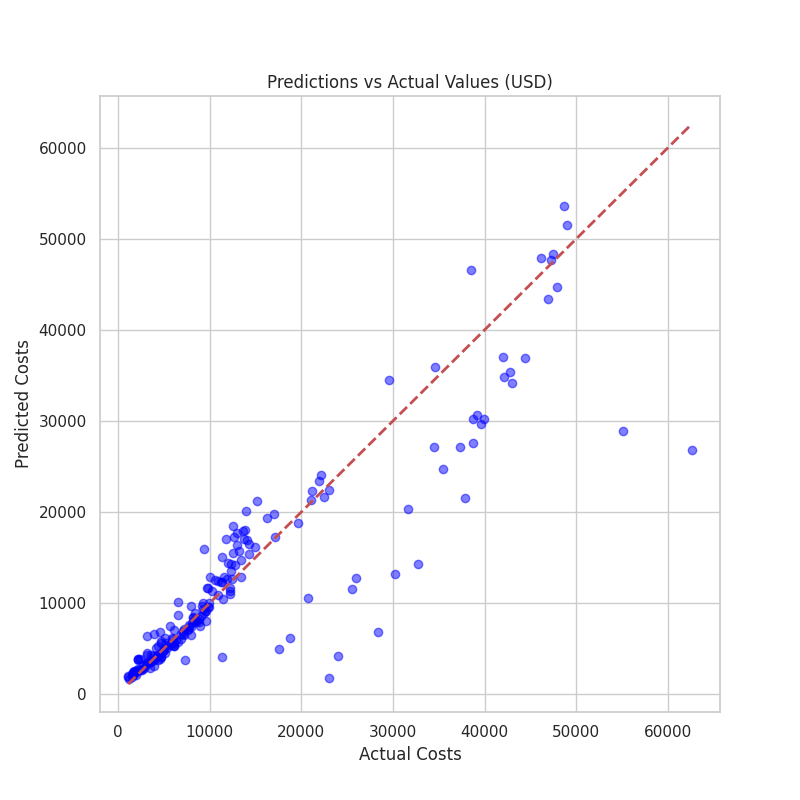
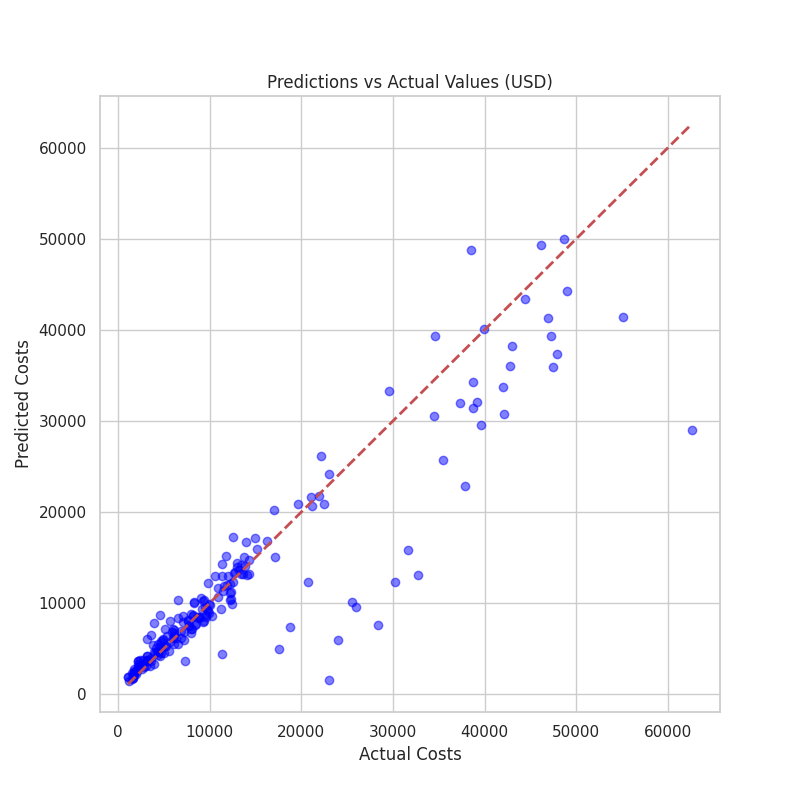
set seed

diff --git a/src/utils.py b/src/utils.py
@@ -1,0 +1,23 @@
+import torch
+import numpy as np
+import random
+import os
+
+def set_seed(seed=42):
+
+    # Python base 
+    random.seed(seed)
+    os.environ['PYTHONHASHSEED'] = str(seed)
+    
+    # Numpy
+    np.random.seed(seed)
+    
+    # PyTorch (CPU y GPU)
+    torch.manual_seed(seed)
+    torch.cuda.manual_seed(seed)
+    torch.cuda.manual_seed_all(seed)
+    
+    # Force CuDNN to be deterministic (may impact performance)
+    torch.backends.cudnn.deterministic = True
+    torch.backends.cudnn.benchmark = False
+    

diff --git a/src/pytorch.py b/src/pytorch.py
@@ -61,7 +61,8 @@ def run_pytorch_model():
             v_loss = criterion(model(X_val_t.to(device)), y_val_t.to(device))
         return v_loss.item()
 
-    study = optuna.create_study(direction="minimize")
+    sampler = optuna.samplers.TPESampler(seed=42)
+    study = optuna.create_study(direction="minimize", sampler=sampler)
     study.optimize(objective, n_trials=15)
     best_params = study.best_params
 

diff --git a/src/main.py b/src/main.py
@@ -8,8 +8,10 @@ from EDA import main as run_eda
 from preprocesing import main as run_preprocessing
 from pytorch import run_pytorch_model
 from baseline import run_baseline
+from utils import set_seed
 
 def main():
+    set_seed(42)
     print("\n" + "="*50)
     print("      STARTING INSURANCE PRICE PREDICTION PIPELINE")
     print("="*50)
